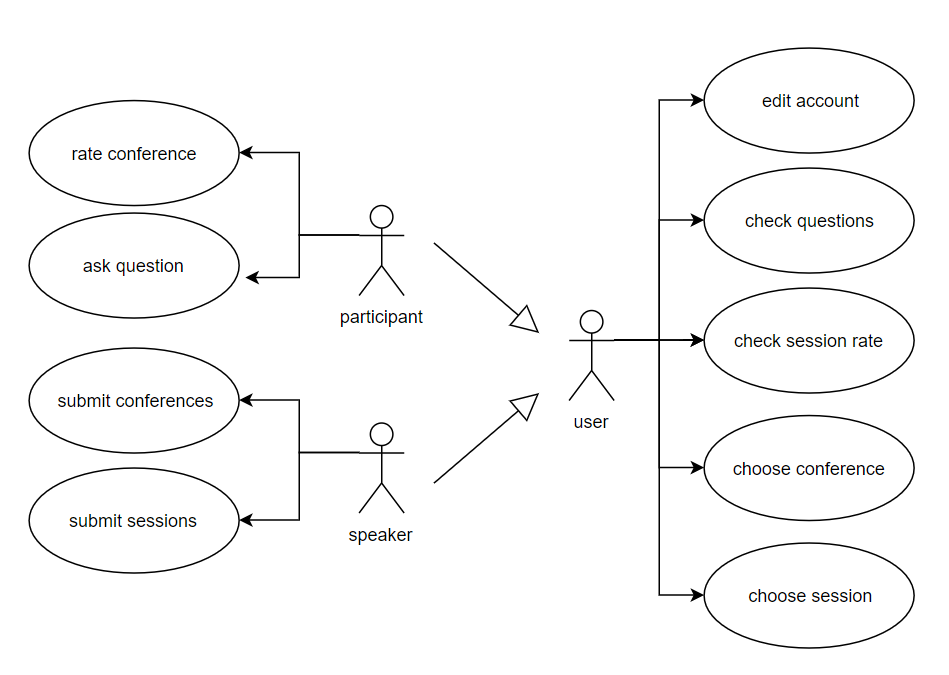
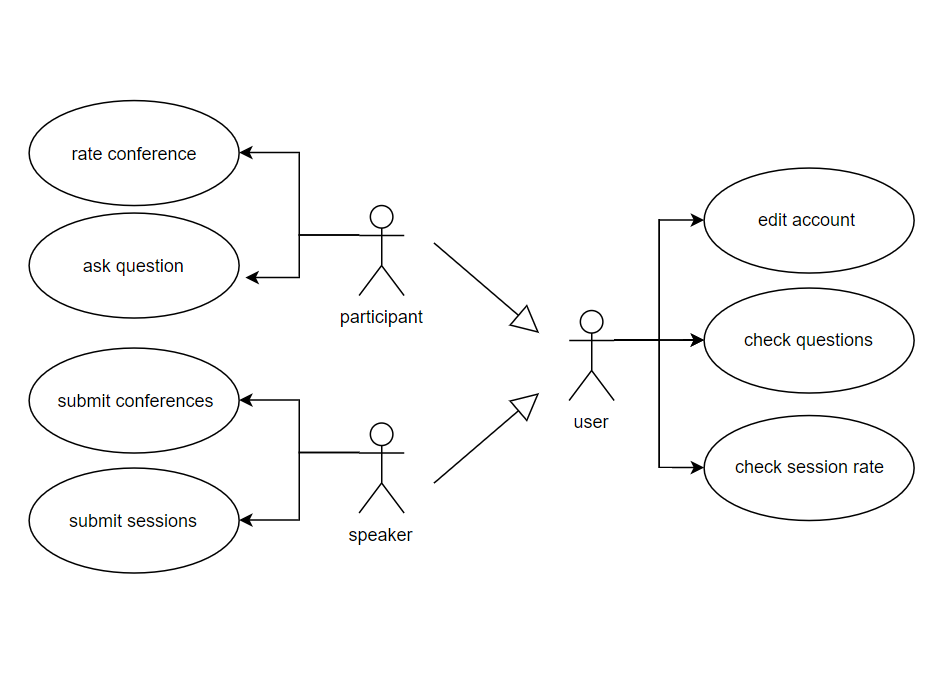
update report v2

diff --git a/Development-Report.md b/Development-Report.md
@@ -59,14 +59,16 @@ Start by contextualizing your module, describing the main concepts, terms, roles
 
 ![alt text](https://github.com/softeng-feup/open-cx-high-on-caffeine/blob/rita/imgs/use_case2.png/)
 
-#### Check Account
+#### Edit Account
 
-* **Actor**: Participant.
-* **Description**: A participant can check their own account details, and edit them.
-* **Preconditions and Postconditions**: In order for a participant to access/edit their account data, they only need to be logged in (preconditions), any changes will be saved and updated for the next time he checks his account (postconditions).
+### USER
+* **Actor**: User.
+* **Description**: The user can check their own account details, and edit them.
+* **Preconditions and Postconditions**: In order for a user to access/edit their account data, they only need to be logged in (preconditions), any changes will be saved and updated for the next time he checks his account (postconditions).
 * **Normal Flow**: 
    * The device has to be connected to the internet
    * Actor has to login/create an account
+   * Actor has to select mode Participant or Speaker
    * Actor selects "Edit Account" in the app
    * Name, Country and College info are shown on the screen
    * The actor can change any information or delete it
@@ -74,32 +76,79 @@ Start by contextualizing your module, describing the main concepts, terms, roles
 * **Alternative Flows and Exceptions**:
    * Device is not connected to the internet 
       * Appears an error, not allowing the system to run
-   * Participant change the information but does not send it
+   * User changes the information but does not send it
       * Nothing is stored, so the information are the same as the last change submitted
 
 #### Check Questions
 
-* **Actor**: Participant. 
-* **Description**: A participant can check all the questions made by all the attendees of the conference. 
-* **Preconditions and Postconditions**: For a participant to be able to check questions, he/she has to be in the conference (preconditions). All questions can be checked by all conference attendees (postconditions). 
+* **Actor**: User. 
+* **Description**: The user can check all the questions made by all the attendees of the conference. 
+* **Preconditions and Postconditions**: For a user to be able to check questions, he/she has to be in the conference (preconditions). All questions can be checked by all conference attendees (postconditions). 
 * **Normal Flow**:
    * The device has to be connected to the internet
    * Actor has to login/create an account
-   * Actor selects "Ask Questions" in the app
-   * All questions are shown on the screen, as well the email of the user that submited it
+   * Actor has to select mode Participant or Speaker
+   * Actor selects "Let'Start" in the app
+   * He/she has to choose a conference and finally a session
+   * In mode Participant he/she has to select "Ask Question", in mode Speaker "Check Questions"
+   * In both cases, all the questions submitted associated with the session are shown on the screen, as well the email of the user that submitted it
 * **Alternative Flows and Exceptions**:
   * Device is not connected to the internet 
       * Appears an error, not allowing the system to run
+  * All conferences and sessions are submitted by Speakers, so it is possible that when a Participant wishes to choose, he/she will not have any
+
+#### Check Session Rate
+
+* **Actor**: User. 
+* **Description**: The user can check the average rate that has been submitted in a specific session.
+* **Preconditions and Postconditions**: For a user to be able to check rates, he/she has to be in the conference (preconditions). The average rate can be checked by all conference attendees (postconditions). 
+* **Normal Flow**:
+   * The device has to be connected to the internet
+   * Actor has to login/create an account
+   * Actor has to select mode Participant or Speaker
+   * Actor selects "Let'Start" in the app
+   * He/she has to choose a conference and finally a session
+   * In mode Participant he/she has to select "Rate Session", in mode Speaker "Check Rate"
+   * In both cases, the average rate associated with the session are shown on the screen in a format of five starts maximum
+* **Alternative Flows and Exceptions**:
+  * Device is not connected to the internet 
+      * Appears an error, not allowing the system to run
+  * All conferences and sessions are submitted by Speakers, so it is possible that when a Participant wishes to choose, he/she will not have any
+
+### PARTICIPANT     
+#### Rate Conference
+
+* **Actor**: Participant. 
+* **Description**: A participant can rate a specific session.
+* **Preconditions and Postconditions**: For a participant to be rate, he/she has to be in the conference (preconditions). When a participant rate a session the average rate is calculated again (postconditions). 
+* **Normal Flow**: 
+   * The device has to be connected to the internet
+   * Actor has to login/create an account
+   * Actor has to select mode Participant or Speaker
+   * Actor selects "Let'Start" in the app
+   * He/she has to choose a conference and finally a session
+   * In mode Participant he/she has to select "Rate Session"
+   * Actor writes the rate (0-5)
+   * Actor submits rate
+   * The new average rate associated with the session are shown on the screen in a format of five starts maximum
+* **Alternative Flows and Exceptions**:
+   * Device is not connected to the internet 
+      * Appears an error, not allowing the system to run
+   * Participant tries to submit an empty rate or a value bigegr than 5
+      * It's not possible to send empty strings or a value bigger than 5, so nothing will be submitted
 
 #### Ask Question
 
 * **Actor**: Participant. 
 * **Description**: A participant can ask questions. 
-* **Preconditions and Postconditions**: For a participant to be able to ask questions, he/she has to be in the conference (preconditions). When a participant asks a question it is visible in the application for the speaker and other participants (postconditions). 
+* **Preconditions and Postconditions**: For a participant to be able to ask questions, he/she has to be in the conference (preconditions). When a participant asks a question it is visible in the application for the all users (postconditions). 
 * **Normal Flow**: 
    * The device has to be connected to the internet
    * Actor has to login/create an account
-   * Actor selects "Ask Questions" in the app
+   * Actor has to select mode Participant
+   * Actor selects "Let'Start" in the app
+   * He/she has to choose a conference and finally a session
+   * In mode Participant he/she has to select "Ask Question"
    * Actor writes the question he wants to ask
    * Actor submits question
    * Question is available to everyone to see, as well the email of the user that submited it
@@ -109,7 +158,47 @@ Start by contextualizing your module, describing the main concepts, terms, roles
    * Participant tries to submit an empty question
       * It's not possible to send empty questions, so nothing will be submitted
 
-The rest of the tasks have not yet been implemented.
+
+### SPEAKER 
+#### Submit Conferences
+
+* **Actor**: Speaker. 
+* **Description**: A speaker can submit conferences. 
+* **Preconditions and Postconditions**: For a speaker to be able to add conferences, he/she has to be in the conference (preconditions). When a speaker adds a conference, it is visible in the application for all users (postconditions). 
+* **Normal Flow**: 
+   * The device has to be connected to the internet
+   * Actor has to login/create an account
+   * Actor has to select mode Speaker
+   * Actor selects "Let'Start" in the app
+   * Actor writes the new conference
+   * Actor submits name
+   * The new conference is now available to everyone to see and choose
+* **Alternative Flows and Exceptions**:
+   * Device is not connected to the internet 
+      * Appears an error, not allowing the system to run
+   * Participant tries to submit an empty conference
+      * It's not possible to send empty strings, so nothing will be submitted
+
+#### Submit Sessions
+
+* **Actor**: Speaker. 
+* **Description**: A speaker can submit sessions of a conference. 
+* **Preconditions and Postconditions**: For a speaker to be able to add sessions, he/she has to be in the conference (preconditions). When a speaker adds a session, it is visible in the application for all users (postconditions). 
+* **Normal Flow**: 
+   * The device has to be connected to the internet
+   * Actor has to login/create an account
+   * Actor has to select mode Speaker
+   * Actor selects "Let'Start" in the app
+   *  He/she has to choose a conference
+   * Actor writes the new session
+   * Actor submits name
+   * The new session is now available to everyone to see and choose
+* **Alternative Flows and Exceptions**:
+   * Device is not connected to the internet 
+      * Appears an error, not allowing the system to run
+   * Participant tries to submit an empty session
+      * It's not possible to send empty strings, so nothing will be submitted
+
 
 ### User stories
 
